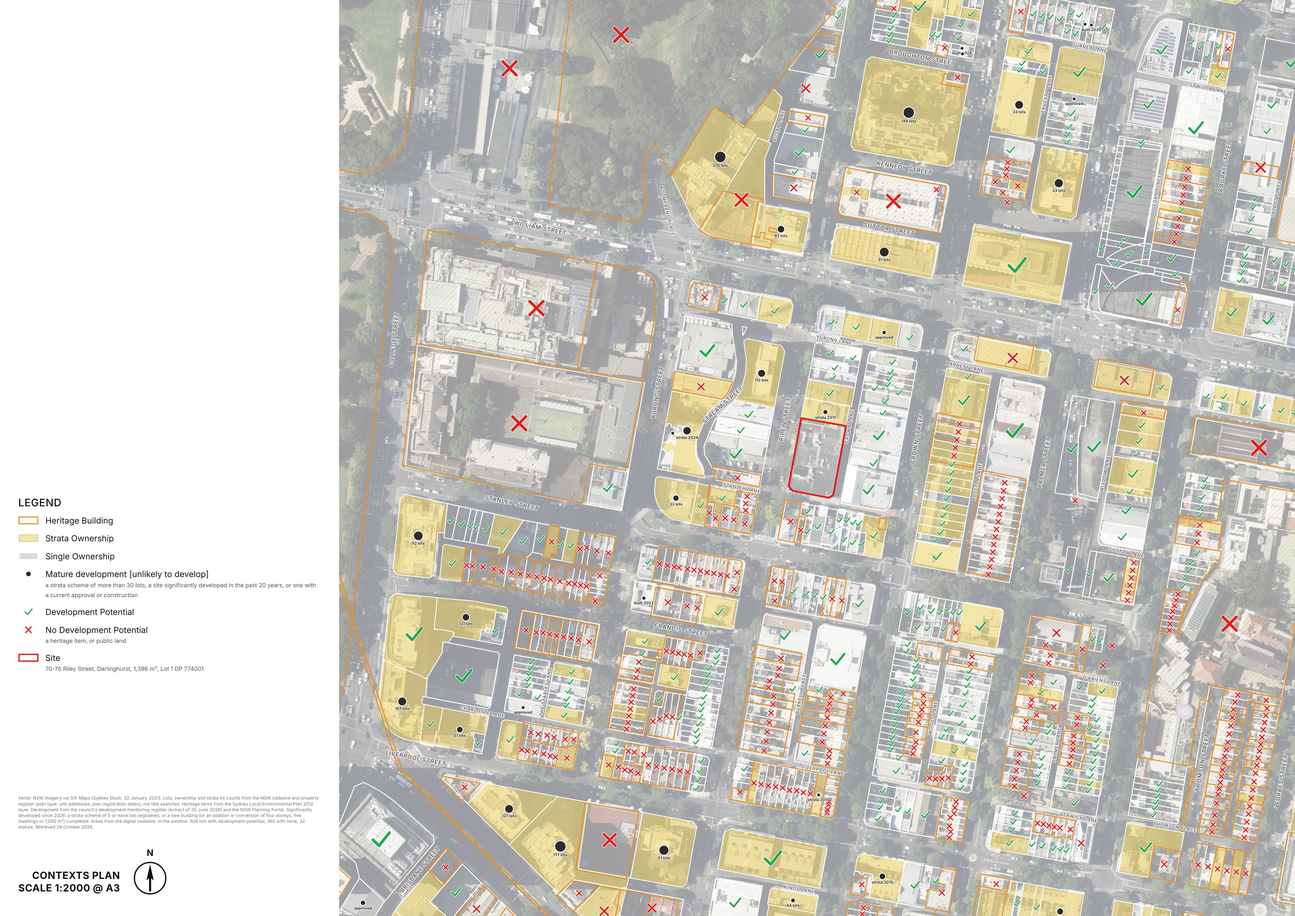
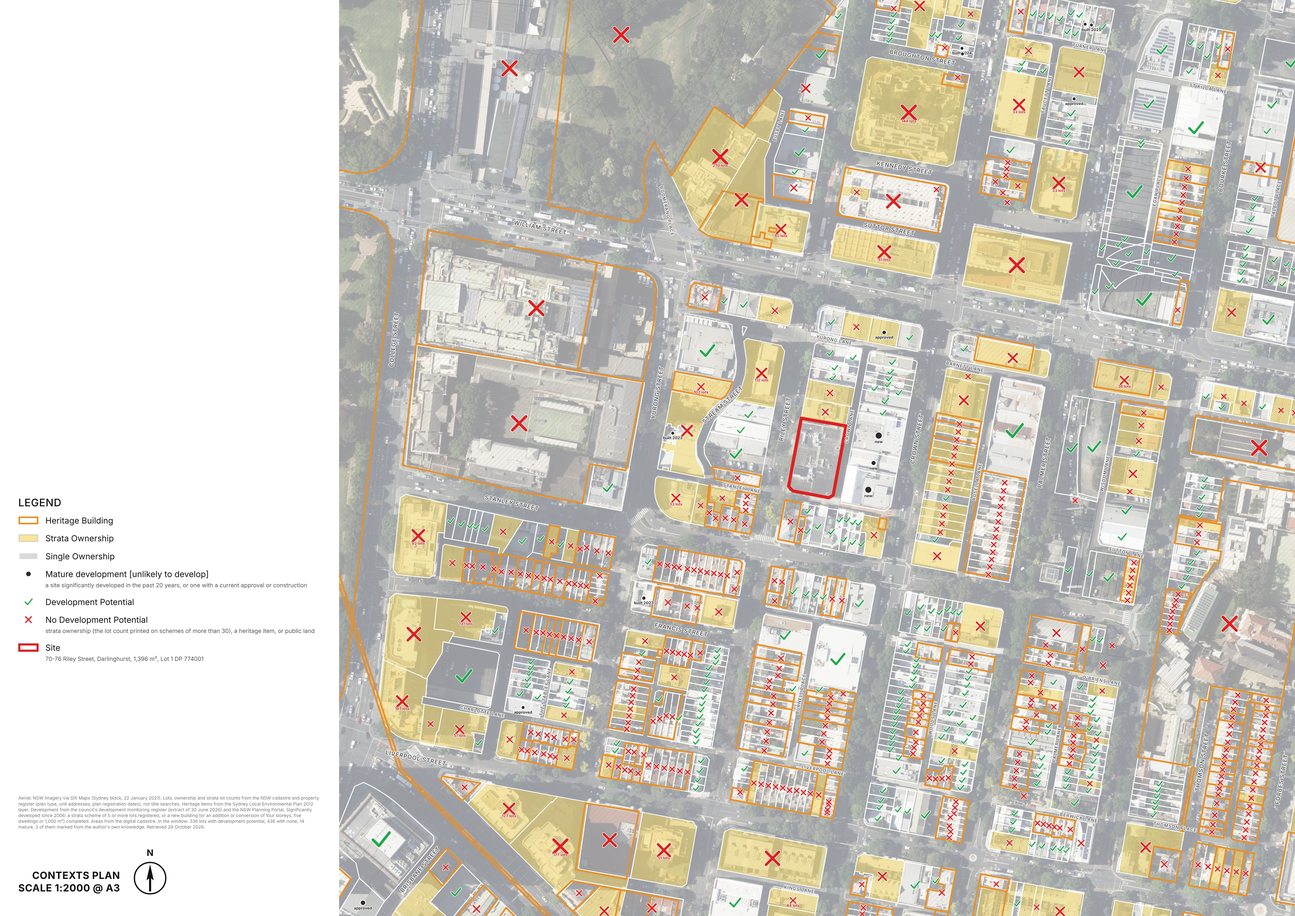
Capacity study: a cross on strata ownership, the author's overrides, thicker heritage and site lines
Strata ownership has no development potential on this sheet: a cross,
with the lot count printed under it on a scheme of more than 30 lots. The
dot keeps to a site significantly developed in the past 20 years or one
with a current approval or construction.

A building put up on a single title before the council's register begins
(2021) has no open-data date, so `--overrides marks.json` carries the
author's own marks, keyed by the start of the address as the register
writes it, with a note to print; the sheet's fine print counts them. The
Riley Street example marks the three buildings between Crown Lane and
Crown Street as new.

The register's second record of one parcel (three rows for 121-129 Crown
Street) is drawn and counted once. The heritage and site lines are
thicker.

Claude-Session: https://claude.ai/code/session_01VNRPanhp62ev3Z3T48NYcJ

diff --git a/scripts/capacity_study.ts b/scripts/capacity_study.ts
@@ -4,13 +4,15 @@
 // the blocks around the site over the faded aerial and the cadastre, every
 // property outlined by ownership (a single title in white, a strata scheme
 // filled, a heritage building in orange), a tick on the lots with
-// development potential, a cross on those with none (heritage items, public
-// land) and a dot on mature development (a strata scheme of more than 30
-// lots, a site significantly developed in the past 20 years, or one with a
-// current approval or construction), the site in red; a legend on the left.
+// development potential, a cross on those with none (strata ownership,
+// heritage items, public land) and a dot on mature development (a site
+// significantly developed in the past 20 years, or one with a current
+// approval or construction), the site in red; a legend on the left.
 //
 //   npm run capacity -- "70-76 Riley Street, Darlinghurst NSW 2010"
 //   npm run capacity -- "<address>" --notes my-notes.html --out out/capacity/riley
+//   npm run capacity -- "<address>" --overrides marks.json   (the author's marks where the data cannot see: a new
+//                                                             building on a single title before the register begins)
 //   npm run capacity -- "<address>" --redraw      (draw again from what was fetched, after an edit to the scripts)
 //
 // Everything comes from the open data the deck already reads (geocoder,
@@ -25,7 +27,7 @@
 
 import { execFile } from 'node:child_process';
 import { existsSync } from 'node:fs';
-import { mkdir, readFile, writeFile } from 'node:fs/promises';
+import { copyFile, mkdir, readFile, writeFile } from 'node:fs/promises';
 import { dirname, join, resolve } from 'node:path';
 import { fileURLToPath } from 'node:url';
 import { promisify } from 'node:util';
@@ -63,6 +65,9 @@ const soft = async <T,>(name: string, p: Promise<T>, fallback: T): Promise<T> =>
 };
 
 await mkdir(join(out, 'data'), { recursive: true });
+// the author's overrides.json, keyed by the start of a property's address as the register writes it
+// ("121-129 CROWN STREET"), each { symbol: 'mature' | 'none' | 'potential', note?: 'built 2019' }
+if (flag('--overrides')) await copyFile(resolve(flag('--overrides')!), join(out, 'overrides.json'));
 if (!redraw) await fetchWindow();
 
 async function fetchWindow(): Promise<void> {

diff --git a/scripts/capacity_study/render.py b/scripts/capacity_study/render.py
@@ -1,6 +1,6 @@
 """Draw the context plan from analysis.json: an A3 landscape sheet at 1:2000, the faded aerial under the cadastre,
-every property outlined by ownership, a heritage building in orange, a tick, a cross or a dot on each, the site in
-red, the streets named; a white legend panel on the left with the plan's title, scale and north.
+every property outlined by ownership, a heritage building in orange, a tick, a cross or a dot on each (a cross on
+strata ownership, a heritage item and public land), the site in red, the streets named; a white legend panel on the left with the plan's title, scale and north.
 
     python3 -I scripts/capacity_study/render.py out/capacity/<slug> [notes.html]
 
@@ -94,9 +94,9 @@ for pid, r in sorted(props.items(), key=lambda kv: kv[1]['kind'] != 'strata'):
         svg.append(f'<path d="{d}" fill="none" stroke="{WHITE}" stroke-width="{w(3.5)}" stroke-linejoin="round"/>')
 # heritage buildings: an orange line with a fine orange hatch inside it
 for h in a['heritageItems']:
-    svg.append(f'<path d="{path(h["rings"])}" fill="url(#heritage)" stroke="{ORANGE}" stroke-width="{w(4)}" stroke-linejoin="round"/>')
+    svg.append(f'<path d="{path(h["rings"])}" fill="url(#heritage)" stroke="{ORANGE}" stroke-width="{w(6.5)}" stroke-linejoin="round"/>')
 # the site, in red
-svg.append(f'<path d="{path(site["geom"])}" fill="none" stroke="{RED}" stroke-width="{w(7)}" stroke-linejoin="round"/>')
+svg.append(f'<path d="{path(site["geom"])}" fill="none" stroke="{RED}" stroke-width="{w(12)}" stroke-linejoin="round"/>')
 
 
 # ---- the marks: a tick, a cross or a dot on every property, sized to it -------------------------------------
@@ -118,32 +118,43 @@ def dot(x, y, s):
 
 
 def symbol(r):
-    """What the legend says of the property: potential, none, or mature."""
-    if r['kind'] in ('council', 'state') or r.get('heritageItem'):
+    """What the legend says of the property: potential, none, or mature; the author's overrides.json first."""
+    if (r.get('override') or {}).get('symbol') in ('potential', 'none', 'mature'):
+        return r['override']['symbol']
+    if r['kind'] == 'developing':
+        return 'mature'
+    if r['kind'] in ('council', 'state') or r.get('heritageItem') or r['strata']:
         return 'none'
-    if r['kind'] == 'developing' or (r['strata'] and r['units'] > STRATA_MAX) or r.get('developed'):
+    if r.get('developed'):
         return 'mature'
     return 'potential'
 
 
-noted = []
+noted, marked = [], []
 for pid, r in props.items():
     if not r['geom'] or not in_window(r['centroid']) or (r['areaM2'] or 0) < 40 or r.get('isSite'):  # lane stubs and slivers carry no mark
         continue
     x, y = px(r['centroid'])
+    if any(math.hypot(x - mx, y - my) < 0.5 * PPM for mx, my in marked):  # the register's second record of one parcel
+        continue
+    marked.append((x, y))
     s = max(24, min(72, 1.6 * math.sqrt(r['areaM2'] or 1))) * U
     lw = max(4.5, s / U * 0.15) * U
     kind = symbol(r)
     if kind == 'potential':
         svg.append(tick(x, y, s, lw))
+        note = ''
     elif kind == 'none':
         svg.append(cross(x, y, s, lw))
+        note = f'{r["units"]} lots' if r['strata'] and r['units'] > STRATA_MAX else ''  # the large schemes, sized
     else:
         svg.append(dot(x, y, s))
-        note = f'{r["units"]} lots' if r['strata'] and r['units'] > STRATA_MAX else f"{r['developed']['how']} {r['developed']['year']}" if r.get('developed') else 'approved' if r['kind'] == 'developing' else ''
-        if note and not any(math.hypot(x - nx, y - ny) < 70 * U for nx, ny in noted):  # two dots a few millimetres apart share one note
-            noted.append((x, y))
-            svg.append(f'<text x="{f(x)}" y="{f(y + s * 0.3 + 16 * U)}" font-size="{w(15)}" font-weight="700" text-anchor="middle" fill="{DOT}" stroke="#fff" stroke-width="{w(3)}" paint-order="stroke">{note}</text>')
+        note = f"{r['developed']['how']} {r['developed']['year']}" if r.get('developed') else 'approved' if r['kind'] == 'developing' else ''
+    if (r.get('override') or {}).get('note'):
+        note = str(r['override']['note'])
+    if note and not any(math.hypot(x - nx, y - ny) < 70 * U for nx, ny in noted):  # two marks a few millimetres apart share one note
+        noted.append((x, y))
+        svg.append(f'<text x="{f(x)}" y="{f(y + s * 0.3 + 16 * U)}" font-size="{w(15)}" font-weight="700" text-anchor="middle" fill="{CROSS if kind == "none" else DOT}" stroke="#fff" stroke-width="{w(3)}" paint-order="stroke">{note}</text>')
 
 
 # ---- the streets, named along their centrelines -----------------------------------------------------------------
@@ -190,8 +201,16 @@ for name, paths in labels.items():
 svg.append('</g></svg>')
 
 # ---- the legend panel ---------------------------------------------------------------------------------------------
-vis = [r for r in props.values() if r['geom'] and in_window(r['centroid']) and not r.get('isSite')]
+vis, seen = [], []
+for r in props.values():
+    if not r['geom'] or not in_window(r['centroid']) or r.get('isSite'):
+        continue
+    if any(math.hypot(r['centroid'][0] - c[0], r['centroid'][1] - c[1]) < 0.5 * K for c in seen):  # one parcel, counted once
+        continue
+    seen.append(r['centroid'])
+    vis.append(r)
 counts = {k: sum(1 for r in vis if symbol(r) == k) for k in ('potential', 'none', 'mature')}
+overridden = sum(1 for r in vis if r.get('override'))
 c = a.get('controls') or {}
 fmt = lambda n: f'{n:,}'
 caption = meta.get('caption') or ' '.join(x.capitalize() for x in site['base'].lower().split())
@@ -203,13 +222,13 @@ def swatch(inner):
 
 
 legend = [
-    (swatch(f'<rect x="3" y="3" width="72" height="26" fill="none" stroke="{ORANGE}" stroke-width="4"/>'), 'Heritage Building'),
+    (swatch(f'<rect x="4" y="4" width="70" height="24" fill="none" stroke="{ORANGE}" stroke-width="6"/>'), 'Heritage Building'),
     (swatch(f'<rect x="3" y="3" width="72" height="26" fill="{STRATA}" fill-opacity="0.6" stroke="#bbb" stroke-width="2"/>'), 'Strata Ownership'),
     (swatch(f'<rect x="3" y="3" width="72" height="26" fill="#d9d9d9" stroke="{WHITE}" stroke-width="4"/>'), 'Single Ownership'),
-    (swatch(f'<circle cx="39" cy="16" r="9" fill="{DOT}"/>'), f'Mature development [unlikely to develop]<br><span class="fine">a strata scheme of more than {STRATA_MAX} lots, a site significantly developed in the past {RECENT_YEARS} years, or one with a current approval or construction</span>'),
+    (swatch(f'<circle cx="39" cy="16" r="9" fill="{DOT}"/>'), f'Mature development [unlikely to develop]<br><span class="fine">a site significantly developed in the past {RECENT_YEARS} years, or one with a current approval or construction</span>'),
     (swatch(tick(39, 16, 30, 4.5).replace(f'{4.5 + 4 * U:.1f}', '8')), 'Development Potential'),
-    (swatch(cross(39, 16, 30, 4.5).replace(f'{4.5 + 4 * U:.1f}', '8')), 'No Development Potential<br><span class="fine">a heritage item, or public land</span>'),
-    (swatch(f'<rect x="3" y="3" width="72" height="26" fill="none" stroke="{RED}" stroke-width="5"/>'), f'Site<br><span class="fine">{H.escape(caption)}, {fmt(site["areaM2"])} m², {H.escape(lot_desc)}</span>'),
+    (swatch(cross(39, 16, 30, 4.5).replace(f'{4.5 + 4 * U:.1f}', '8')), f'No Development Potential<br><span class="fine">strata ownership (the lot count printed on schemes of more than {STRATA_MAX}), a heritage item, or public land</span>'),
+    (swatch(f'<rect x="4" y="4" width="70" height="24" fill="none" stroke="{RED}" stroke-width="8"/>'), f'Site<br><span class="fine">{H.escape(caption)}, {fmt(site["areaM2"])} m², {H.escape(lot_desc)}</span>'),
 ]
 img = a.get('imagery') or {}
 
@@ -228,7 +247,8 @@ sources = (f"Aerial: NSW Imagery via SIX Maps{(' (' + ' '.join(x.capitalize() fo
            f"Heritage items from the {c.get('epiName', 'LEP')} layer. Development from the council's development monitoring register"
            + (f" (extract of {day(extract)})" if extract else '') + f" and the NSW Planning Portal. Significantly developed since {SINCE}: a strata scheme of {SMALL_SCHEME} or more lots registered, "
            "or a new building (or an addition or conversion of four storeys, five dwellings or 1,000 m²) completed. "
-           f"Areas from the digital cadastre. In the window: {counts['potential']} lots with development potential, {counts['none']} with none, {counts['mature']} mature. Retrieved {day(a.get('fetchedAt') or '')}.")
+           f"Areas from the digital cadastre. In the window: {counts['potential']} lots with development potential, {counts['none']} with none, {counts['mature']} mature"
+           + (f", {overridden} of them marked from the author's own knowledge" if overridden else '') + f". Retrieved {day(a.get('fetchedAt') or '')}.")
 notes = open(NOTES).read() if NOTES else ''
 north = f'<svg width="150" height="190" viewBox="0 0 150 190"><text x="75" y="30" font-size="34" font-weight="700" text-anchor="middle" fill="{INK}" font-family="Inter, Helvetica, Arial, sans-serif">N</text><circle cx="75" cy="115" r="60" fill="none" stroke="{INK}" stroke-width="5"/><path d="M75,62 L89,124 L75,112 L61,124 Z" fill="{INK}"/><rect x="71" y="112" width="8" height="54" fill="{INK}"/></svg>'
 page = f'''<!doctype html><html><head><meta charset="utf-8"><title>{H.escape(caption)}: context plan</title>

diff --git a/scripts/capacity_study/analyse.py b/scripts/capacity_study/analyse.py
@@ -13,6 +13,14 @@ import collections, datetime, json, math, re, sys
 OUT = sys.argv[1]
 b = json.load(open(f'{OUT}/bundle.json'))
 da = json.load(open(f'{OUT}/da.json'))
+# What the author knows that the data does not: an overrides.json beside the bundle, keyed by the start of a
+# property's address as the register writes it ("121-129 CROWN STREET"), each {"symbol": "mature" | "none" |
+# "potential", "note": "built 2019"}. A building put up on a single title before the council's register begins
+# (2021) has no open-data date, and this is where the author says so.
+try:
+    overrides = {k.upper().strip(): v for k, v in json.load(open(f'{OUT}/overrides.json')).items()}
+except FileNotFoundError:
+    overrides = {}
 
 # ---- geometry, in Web Mercator metres ------------------------------------------------------------
 R = 20037508.342789244
@@ -252,6 +260,7 @@ for r in props.values():
     if r['strataRegistered'] and int(r['strataRegistered'][:4]) >= SINCE and r['units'] >= SMALL_SCHEME:
         developed.append({'year': int(r['strataRegistered'][:4]), 'how': 'strata', 'detail': f"strata scheme of {r['units']} lots registered {r['strataRegistered'][:4]}"})
     r['developed'] = max(developed, key=lambda d: d['year']) if developed else None
+    r['override'] = next((v for k, v in overrides.items() if r['base'].startswith(k)), None)
     r['isSite'] = in_poly(site_pt, r['geom'])
     if r['isSite']:
         r['kind'] = 'site'
@@ -304,5 +313,5 @@ out = {
 json.dump(out, open(f'{OUT}/analysis.json', 'w'))
 kinds = collections.Counter(r['kind'] for r in props.values())
 marks = collections.Counter(r['mark'] for r in props.values() if r['mark'])
-print(f"{len(props)} properties: {dict(kinds)}; marks {dict(marks)}; site {site['base']} {site['areaM2']} m² {site['lots']}; "
+print(f"{len(props)} properties: {dict(kinds)}; marks {dict(marks)}; overrides {sum(1 for r in props.values() if r.get('override'))}; site {site['base']} {site['areaM2']} m² {site['lots']}; "
       f"neighbours {[(n['base'], n['sharedM']) for n in site['neighbours']]}; lots unlinked {sum(1 for l in lots if l['propid'] is None)}")

diff --git a/README.md b/README.md
@@ -1517,14 +1517,19 @@ redevelop in the short to medium term: an A3 landscape sheet at 1:2000, the
 blocks around the site (620 × 594 m) over the faded aerial and the cadastre,
 every property outlined by ownership (a single title in white, a strata
 scheme filled yellow, a heritage building in orange with a fine hatch), a
-tick on the lots with development potential, a cross on those with none and
-a dot on mature development, the site in red; a white panel on the left with
+tick on the lots with development potential, a cross on those with none
+(strata, heritage, public land) and a dot on mature development, the site in
+red; a white panel on the left with
 the legend, the sources, the plan's title and scale, and north. Outputs
 `out/capacity/<slug>/diagram.png` and `diagram.pdf` (4961 × 3508 px, A3 at
 300 dpi); `--notes my-notes.html` puts the author's own paragraphs at the top
-of the panel, `--out` names the folder and `--redraw` draws again from what
-was already fetched. `examples/capacity_study/` holds the sheet for 70-76
-Riley Street, Darlinghurst.
+of the panel, `--overrides marks.json` sets the marks the data cannot see
+(a new building on a single title from before the council's register
+begins: `{"121-129 CROWN STREET": {"symbol": "mature", "note": "new"}}`,
+keyed by the start of the address as the register writes it, and the sheet's
+fine print counts them), `--out` names the folder and `--redraw` draws again
+from what was already fetched. `examples/capacity_study/` holds the sheet for
+70-76 Riley Street, Darlinghurst, with its overrides file.
 
 What the sheet reads, all open data (`scripts/capacity_study.ts` fetches,
 `scripts/capacity_study/analyse.py` classifies, `render.py` draws):
@@ -1550,15 +1555,16 @@ What the sheet reads, all open data (`scripts/capacity_study.ts` fetches,
   lot is its plan's registration date for every plan after the digital
   cadastre was built in September 1993 (older plans all carry that date, and
   are left undated), so a strata plan dates a building back to then.
-- *The marks*: a cross (no development potential) on a heritage item and on
-  public land; a dot (mature development, unlikely to develop) on a strata
-  scheme of more than 30 lots, on a site significantly developed in the past
-  20 years (a strata scheme of five or more lots registered, or a new
-  building, or an addition or conversion of four storeys, five dwellings or
-  1,000 m², completed on the register), with the lot count or the year under
-  it, and on a site with a current approval, construction or live application
-  for a new building; a tick (development potential) on every other property.
-  Lane stubs and slivers under 40 m² carry no mark.
+- *The marks*: a cross (no development potential) on strata ownership (the
+  lot count printed under it on a scheme of more than 30 lots), on a heritage
+  item and on public land; a dot (mature development, unlikely to develop) on
+  a site significantly developed in the past 20 years (a strata scheme of
+  five or more lots registered, or a new building, or an addition or
+  conversion of four storeys, five dwellings or 1,000 m², completed on the
+  register), with the year under it, and on a site with a current approval,
+  construction or live application for a new building; a tick (development
+  potential) on every other property. Lane stubs and slivers under 40 m²
+  carry no mark.
 
 ## How it works
 
